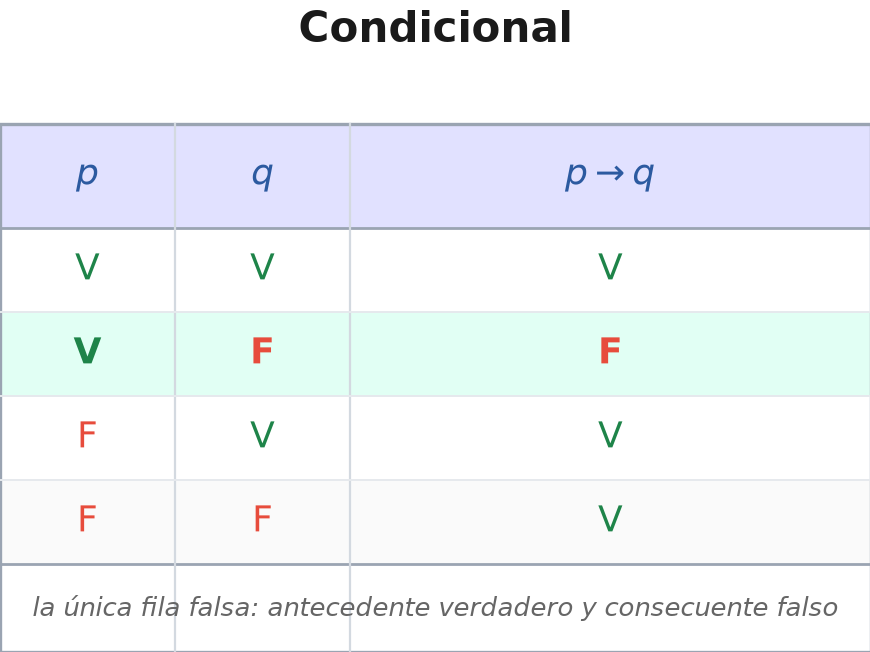
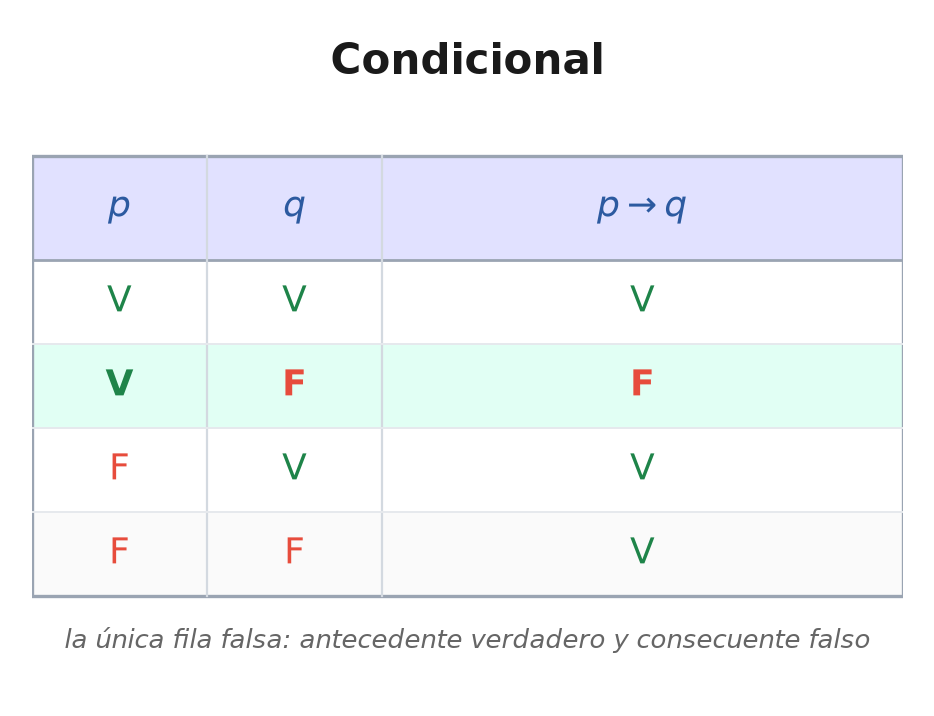
fix(matdisc): las lineas de la tabla ya no cruzan el pie de nota de las figuras
El usuario reporto dos defectos visuales en Matematicas Discretas:

1. Las lineas verticales de las columnas cruzaban el texto del pie de nota
   dentro de la propia PNG. Medido por pixeles: las 16 figuras tenian entre
   2 y 9 lineas partiendo el pie en trozos. La causa: el generador las
   dibujaba de y=0 (borde inferior) hasta la cabecera, atravesando la
   franja del pie (y ~0.04..0.09).

2. La figura no tenia padding: el marco de la tabla tocaba el borde del PNG
   (margen 0 px en los 4 lados), asi que al renderizar se veía pegada al
   texto de al lado.

Cambios en gen_tablas_verdad.py:

- El lienzo lleva PAD_FIG de aire a cada lado y el eje ocupa SOLO el area
  de contenido (fig.add_axes con fracciones): nada toca el borde.
- El marco de la tabla empieza en y=h_nota: el pie queda FUERA, como una
  nota al pie de verdad, no como una fila mas.
- Las lineas de las columnas suben desde la ultima fila hasta la cabecera:
  ya no bajan al pie.

QA endurecido (qa_figuras_tabla_verdad.py), con 3 comprobaciones nuevas:

- "linea vertical cruza el pie de nota" (via transData, no coordenadas
  crudas: el eje ya no ocupa todo el lienzo)
- "el pie de nota esta dentro del marco de la tabla"
- revisar_margen(): exige >= 8 px de aire en los 4 lados

Verificacion:

- qa_figuras_tabla_verdad.py -> 16 figuras, 0 fallos
- prueba negativa: los 3 defectos reintroducidos se detectan (0 casos no
  detectados) y una PNG pegada al borde la marca revisar_margen
[…]

diff --git a/Universidad/Herramientas/Mantenimiento/gen_tablas_verdad.py b/Universidad/Herramientas/Mantenimiento/gen_tablas_verdad.py
@@ -372,6 +372,7 @@ def _planificar(spec):
     anchos = minimos
 
     # --- alto: la nota envuelta puede ocupar varias lineas
+    #     (esto es el alto del CONTENIDO; el lienzo lleva padding alrededor)
     n_lineas_nota = len(nota_env.split("\n")) if nota_env else 0
     h_fila = 0.42
     h_cab = 0.52
@@ -379,8 +380,29 @@ def _planificar(spec):
     h_nota = (0.24 + 0.20 * n_lineas_nota) if nota else 0.0
     alto = h_tit + h_cab + h_fila * len(spec["filas"]) + h_nota
 
-    figsize = (ancho_fig_px / DPI_CANVAS, alto)
+    # El lienzo es mas grande que el contenido: PAD_FIG de aire a cada lado,
+    # para que el marco de la tabla NO toque el borde de la imagen (si lo
+    # toca, al renderizar la figura parece pegada al texto de al lado).
+    figsize = ((ancho_fig_px + 2 * PAD_FIG) / DPI_CANVAS,
+               alto + 2 * PAD_FIG / DPI_CANVAS)
     return figsize, anchos, fs_cab, nota_env
+
+
+def _geometria_figura(figsize):
+    """Reparte el lienzo entre el aire exterior y el area de contenido.
+
+    Devuelve (alto_contenido, ancho_contenido_px, alto_total_px,
+    ancho_total_px, frac_x, frac_y, frac_w, frac_h), donde frac_* es la
+    posicion/tamano del eje dentro del lienzo (para fig.add_axes)."""
+    ancho_total_px = figsize[0] * DPI_CANVAS
+    alto_total_px = figsize[1] * DPI_CANVAS
+    ancho_contenido_px = ancho_total_px - 2 * PAD_FIG
+    alto_contenido_px = alto_total_px - 2 * PAD_FIG
+    alto_contenido = alto_total_px / DPI_CANVAS - 2 * PAD_FIG / DPI_CANVAS
+    return (alto_contenido, ancho_contenido_px, alto_total_px, ancho_total_px,
+            PAD_FIG / ancho_total_px, PAD_FIG / alto_total_px,
+            ancho_contenido_px / ancho_total_px,
+            alto_contenido_px / alto_total_px)
 
 
 def _color_celda(v):
@@ -407,18 +429,23 @@ def dibujar(spec, salida=None):
     ncols = len(cols)
     figsize, anchos, fs_cab, nota_env = _planificar(spec)
 
+    (alto_cont, _ancho_cont_px, _alto_tot_px, _ancho_tot_px,
+     fx, fy, fw, fh) = _geometria_figura(figsize)
+
     fig = plt.figure(figsize=figsize)
-    ax = fig.add_axes([0, 0, 1, 1])
+    # El eje ocupa SOLO el area de contenido: el padding queda fuera, en
+    # blanco. Asi el marco de la tabla no toca nunca el borde de la imagen.
+    ax = fig.add_axes([fx, fy, fw, fh])
     ax.set_xlim(0, 1)
     ax.set_ylim(0, 1)
     ax.axis("off")
 
     # ---- alto por fila (fraccion del lienzo)
-    h_fila = 0.42 / figsize[1]
-    h_cab = 0.52 / figsize[1]
-    h_tit = 0.62 / figsize[1]
+    h_fila = 0.42 / alto_cont
+    h_cab = 0.52 / alto_cont
+    h_tit = 0.62 / alto_cont
     n_lineas_nota = len(nota_env.split("\n")) if nota_env else 0
-    h_nota = ((0.24 + 0.20 * n_lineas_nota) / figsize[1]) if nota_env else 0.0
+    h_nota = ((0.24 + 0.20 * n_lineas_nota) / alto_cont) if nota_env else 0.0
 
     # ---- titulo
     y = 1 - h_tit * 0.25
@@ -427,6 +454,9 @@ def dibujar(spec, salida=None):
             color=TINTA)
 
     # ---- Nota al pie
+    # Vive DEBAJO del marco de la tabla (es una nota, no una fila) y las
+    # lineas de las columnas NO la cruzan: antes bajaban hasta y=0 y le
+    # partian el texto en trozos.
     if nota_env:
         ax.text(0.5, h_nota * 0.5, nota_env,
                 ha="center", va="center", fontsize=9.5, color=GRIS,
@@ -466,13 +496,16 @@ def dibujar(spec, salida=None):
         y_sup = y_inf
 
     # ---- bordes
-    ax.add_patch(plt.Rectangle((0, 0), 1.0, y_cab_sup,
+    # El marco abriga solo la tabla (cabecera + filas): el pie queda fuera, con
+    # su propio aire, como una nota al pie de verdad.
+    ax.add_patch(plt.Rectangle((0, h_nota), 1.0, y_cab_sup - h_nota,
                                fill=False, edgecolor="#9aa4b2", linewidth=1.2))
     ax.plot([0, 1], [y_cab_inf, y_cab_inf], color="#9aa4b2", linewidth=1.0)
     ax.plot([0, 1], [y_sup, y_sup], color="#9aa4b2", linewidth=1.0)
     for j in range(1, ncols):
         x = sum(anchos[:j])
-        ax.plot([x, x], [0, y_cab_sup], color="#d3d9e0", linewidth=0.8)
+        # de la ultima fila hasta la cabecera: nunca bajan al pie
+        ax.plot([x, x], [y_sup, y_cab_sup], color="#d3d9e0", linewidth=0.8)
     for i in range(len(filas) - 1):
         y = y_cab_inf - h_fila * (i + 1)
         ax.plot([0, 1], [y, y], color="#e6e9ed", linewidth=0.7)

diff --git a/Universidad/Herramientas/Mantenimiento/qa_figuras_tabla_verdad.py b/Universidad/Herramientas/Mantenimiento/qa_figuras_tabla_verdad.py
@@ -167,8 +167,81 @@ def revisar_geometria(spec_t):
             if ox > 2 and oy > 2:
                 problemas.append("textos solapados: %r / %r"
                                  % (t1[:22], t2[:22]))
+
+    # ---- las lineas de las columnas NO pueden cruzar el pie de nota.
+    # (Bug real: las verticales bajaban hasta y=0 y partian el texto del pie
+    #  en trozos. El pie va fuera del marco de la tabla.)
+    for ax in fig.axes:
+        pie = None
+        for txt in ax.texts:
+            if txt.get_style() == "italic" or txt.get_color() == gen.GRIS:
+                pie = txt
+                break
+        if pie is None:
+            continue
+        pb = pie.get_window_extent(renderer=rend)
+        for linea in ax.lines:
+            x0, y0 = linea.get_xdata()[0], linea.get_ydata()[0]
+            x1, y1 = linea.get_xdata()[1], linea.get_ydata()[1]
+            if abs(x1 - x0) > 1:          # solo verticales
+                continue
+            # del sistema de datos del eje al canvas (el eje no ocupa todo
+            # el lienzo: hay padding alrededor)
+            p0 = ax.transData.transform((x0, y0))
+            p1 = ax.transData.transform((x1, y1))
+            ly0 = min(p0[1], p1[1])
+            ly1 = max(p0[1], p1[1])
+            if ly0 < pb.y1 and ly1 > pb.y0:
+                problemas.append("linea vertical cruza el pie de nota")
+
+        # ---- el pie va FUERA del marco de la tabla (es una nota, no una
+        #      fila): si el marco lo envuelve, el pie se lee como una fila
+        #      mas de la tabla.
+        for patch in ax.patches:
+            if patch.get_fill():
+                continue
+            mb = patch.get_window_extent(renderer=rend)
+            if mb.y0 <= pb.y0 and mb.y1 >= pb.y1:
+                problemas.append("el pie de nota esta dentro del marco "
+                                 "de la tabla")
+
     plt.close(fig)
     return problemas, len(cajas)
+
+
+def revisar_margen(ruta, minimo=8):
+    """La figura debe tener aire alrededor: nada toca el borde del PNG.
+
+    Sin esto, al renderizar la imagen queda pegada al texto de al lado y
+    parece que las lineas de la tabla se invaden el texto de abajo."""
+    if not os.path.isfile(ruta):
+        return ["no existe"]
+    im = Image.open(ruta).convert("RGB")
+    w, h = im.size
+    pix = im.load()
+    minx, miny, maxx, maxy = w, h, -1, -1
+    for y in range(h):
+        for x in range(w):
+            r, g, b = pix[x, y]
+            if r > 245 and g > 245 and b > 245:
+                continue
+            if x < minx:
+                minx = x
+            if x > maxx:
+                maxx = x
+            if y < miny:
+                miny = y
+            if y > maxy:
+                maxy = y
+    if maxx < 0:
+        return ["figura vacia"]
+    m = (minx, miny, w - 1 - maxx, h - 1 - maxy)
+    problemas = []
+    for lado, v in zip(("izq", "sup", "der", "inf"), m):
+        if v < minimo:
+            problemas.append("margen %s de %d px (minimo %d): la figura "
+                             "toca el borde" % (lado, v, minimo))
+    return problemas
 
 
 # ---------------------------------------------------------------- main
@@ -244,6 +317,9 @@ def main():
         except Exception as e:
             problemas.append("no se pudo medir geometria: %s" % str(e)[:50])
             n_textos = 0
+
+        # --- 5b. MARGEN: la figura no puede tocar el borde del PNG
+        problemas += revisar_margen(ruta_png)
 
         # --- 6. FRESCOR (el PNG del disco vs el que genera el script hoy)
         png_tmp = os.path.join(tmpdir, nombre + ".nuevo.png")
